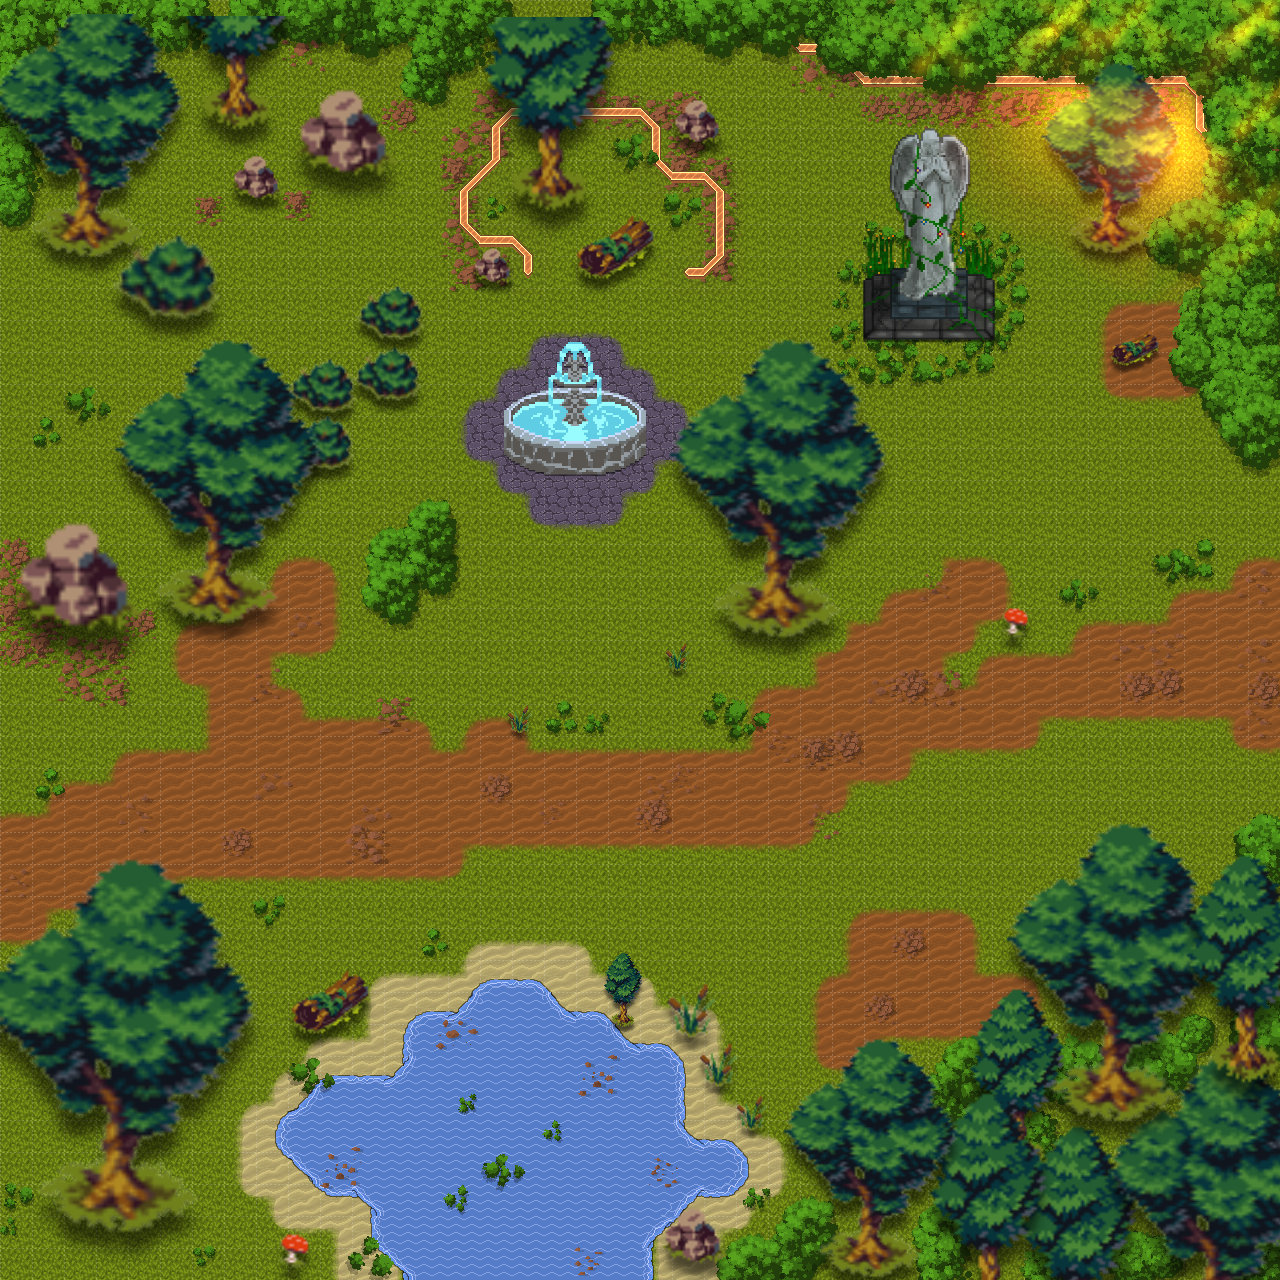
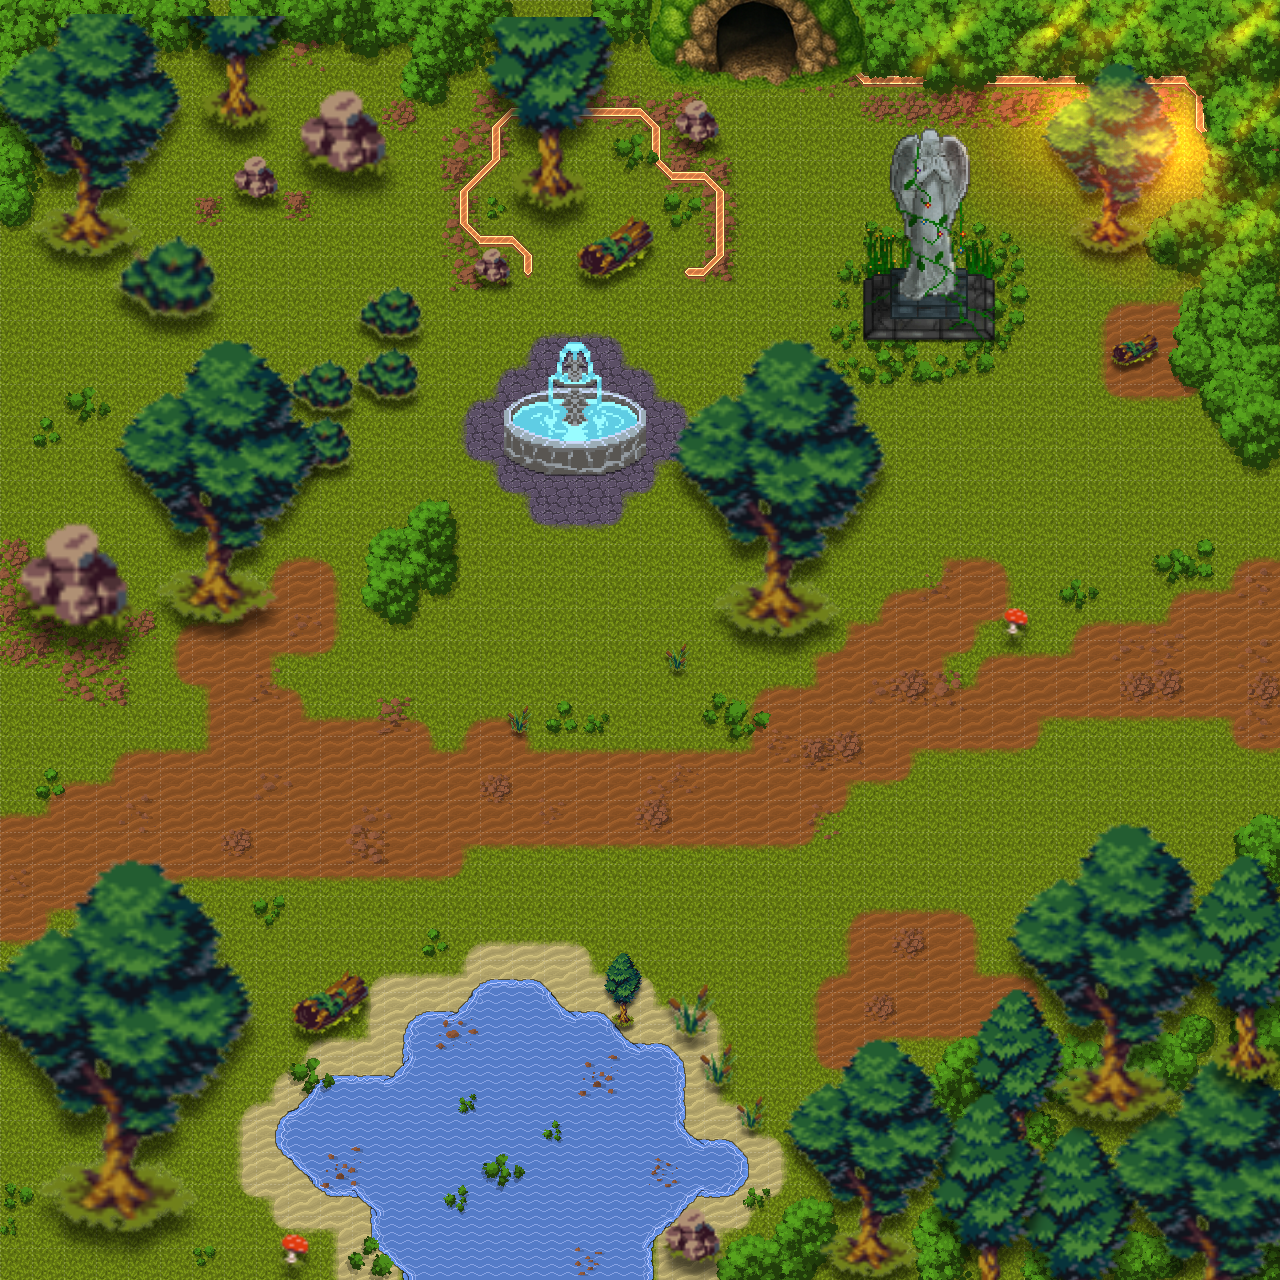
Novo mapa

Changed region(s): [[0.5, 0.0, 0.6875, 0.0938]]

diff --git a/Jogo/game.py b/Jogo/game.py
@@ -3,7 +3,7 @@ import pygame.mixer
 from config import Largura, Altura, FPS, tela, clock, font_dialogo, font_instrucao, font_mensagem, SPRITE_Largura, SPRITE_Altura, DIALOGO_VELOCIDADE, DIALOGO_MARGEM, DIALOGO_CAIXA_X, DIALOGO_CAIXA_Y, DIALOGO_CAIXA_LARGURA_MAX, DIALOGO_CAIXA_ALTURA_MIN
 from assets import mapas, player_spritesheet2, player_spritesheet3, sprite_barra_vida
 from player import Player, Projectplay, atualizar_sprites, ANIM_Baixo_Ataque, ANIM_Esquerda_Ataque, ANIM_Direita_Ataque, ANIM_Cima_Ataque
-from collisions import colisoes_segundo_mapa, colisoes_mapa_torre, colisoes_primeiro_mapa
+from collisions import colisoes_segundo_mapa, colisoes_mapa_torre, colisoes_primeiro_mapa, colisoes_terceiro_mapa
 from Boss import Boss, WindGust
 
 class Game:
@@ -22,7 +22,7 @@ class Game:
         pygame.mixer.music.set_volume(0.05)  # Ajuste o volume (0.0 a 1.0)
         pygame.mixer.music.play(-1)  # -1 faz a música tocar em loop
 
-        ##boss_até entrar na torre
+        #boss_até entrar na torre
         self.all_sprites   = pygame.sprite.Group()
         self.boss_attacks  = pygame.sprite.Group()
         self.boss          = None
@@ -32,13 +32,19 @@ class Game:
         self.coletavel_img3 = pygame.transform.scale(pygame.image.load("bau_aberto.png"), (46, 36))
         self.coletavel_img4 = pygame.transform.scale(pygame.image.load("Caveira_Com_Manto.png"), (100, 100))
         self.coletavel_img5 = pygame.transform.scale(pygame.image.load("Caveira_Sem_Manto.png"), (100, 100))
+        self.coletavel_img6 = pygame.transform.scale(pygame.image.load("Chave.png"), (30, 30))
+        self.coletavel_img7 = pygame.transform.scale(pygame.image.load("Chave_Coletada.png"), (30, 30))
 
         # Coletáveis por mapa
+        # o "pos" define a posição do item no mapa.
         self.coletaveis = {
             "primeiro mapa": [],
             "segundo mapa": [
                 {"pos": (200, 180), "coletado": False},
                 {"pos": (750, 470), "coletado": False}
+            ],
+            "terceiro mapa": [
+                {"pos": (550, 35), "coletado": False}
             ],
             "torre": []
         }
@@ -66,9 +72,10 @@ class Game:
         self.objetos_coletados = 0
         # Inicializar os contadores de cada coletável
         self.contadores_coletaveis = {
-            "manto": 0,
+            "chave": 0,
             "cajado": 0,
-            "livro": 0  
+            "manto": 0,
+            "livro": 0 
         }
         
         # carregar a imagem da moldura dos contadores
@@ -237,7 +244,7 @@ class Game:
 
     def desenhar_contadores_separados(self):
         # desenha a moldura dos coletaveis e os contadores abaixo de cada icone
-        margem_x = 700  # margem direita
+        margem_x = 650  # margem direita
         margem_y = 10  # margem superior
         espacamento_entre_icones = 66  # espaco horizontal entre os contadores
         contador_y_offset = 110  # espaco vertical entre a moldura e o contador
@@ -247,6 +254,7 @@ class Game:
 
         # lista de contadores para cada coletavel
         contadores = [
+            self.contadores_coletaveis["chave"],
             self.contadores_coletaveis["cajado"],
             self.contadores_coletaveis["manto"],
             self.contadores_coletaveis["livro"]
@@ -256,7 +264,7 @@ class Game:
         for i, contador in enumerate(contadores):
             texto = f"{contador}"
             texto_surface = font_mensagem.render(texto, True, (255, 255, 255))
-            texto_rect = texto_surface.get_rect(center=(margem_x + 86 + i * espacamento_entre_icones, margem_y + contador_y_offset))
+            texto_rect = texto_surface.get_rect(center=(margem_x + 52 + i * espacamento_entre_icones, margem_y + contador_y_offset))
             self.tela.blit(texto_surface, texto_rect)
 
     def transicao(self, duracao, tipo="fade-in"):
@@ -370,12 +378,14 @@ class Game:
                     # Desenha o boss parado durante o diálogo
                     self.tela.blit(self.boss.image, self.boss.rect)
 
-            if self.mapa_atual == "segundo mapa":
-                colisoes = colisoes_segundo_mapa
-            elif self.mapa_atual == "torre":
-                colisoes = colisoes_mapa_torre
-            else:
+            if self.mapa_atual == "primeiro mapa":
                 colisoes = colisoes_primeiro_mapa
+            elif self.mapa_atual == "segundo mapa":
+                colisoes = colisoes_segundo_mapa
+            elif self.mapa_atual == "terceiro mapa":
+                colisoes = colisoes_terceiro_mapa
+            else:
+                colisoes = colisoes_mapa_torre
 
             for event in pygame.event.get():
                 if event.type == pygame.QUIT:
@@ -401,12 +411,23 @@ class Game:
                                             self.contadores_coletaveis["manto"] += 1  # Incrementa o contador do manto
                                             self.objetos_coletados += 1
                                             self.coleta_pendente = None
+                                            
                                         self.dialogo_caveira_ativa = False
                                         self.dialogo_atual_lista = self.dialogo_textos
+
+                                    elif self.mapa_atual == "terceiro mapa" and self.coleta_pendente is not None:
+                                        coletavel = self.coletaveis["terceiro mapa"][self.coleta_pendente]
+                                        coletavel["coletado"] = True
+                                        self.mostrar_mensagem("Você encontrou a chave", 120)
+                                        self.contadores_coletaveis["chave"] += 1  # se estiver usando um contador específico
+                                        self.objetos_coletados += 1
+                                        self.coleta_pendente = None
+
                                 else:
                                     self.dialogo_letra_contador = 0
                                     self.dialogo_texto_atual = ""
                                     self.dialogo_frame_contador = 0
+
                         elif self.boss_dialogue_active and self.boss and not self.boss.dialogue_complete:
                             if self.dialogo_letra_contador < len(self.boss.dialogues[self.boss.dialogue_index]):
                                 self.dialogo_letra_contador = len(self.boss.dialogues[self.boss.dialogue_index])
@@ -451,12 +472,15 @@ class Game:
                 self.player.move(keys, colisoes, self.objetos_coletados)
 
             jogador_rect = pygame.Rect(self.player.x, self.player.y, SPRITE_Largura, SPRITE_Altura)
+
             for index, coletavel in enumerate(self.coletaveis[self.mapa_atual]):
-                
+
                 if not coletavel["coletado"]:
                     coletavel_rect_bau = self.coletavel_img2.get_rect(topleft=coletavel["pos"])
                     coletavel_rect_esq = self.coletavel_img4.get_rect(topleft=coletavel["pos"])
+                    coletavel_rect_key = self.coletavel_img6.get_rect(topleft=coletavel["pos"])
 
+                    # Lógica de interação com coletável no segundo mapa
                     if index == 0 and self.mapa_atual == "segundo mapa" and not self.dialogo_caveira_ativa and not self.dialogo_ativa:
                         proximidade_rect = coletavel_rect_esq.inflate(100, 100)
                         if jogador_rect.colliderect(proximidade_rect):
@@ -469,32 +493,52 @@ class Game:
                             self.dialogo_frame_contador = 0
                             self.coleta_pendente = index
 
-                    if coletavel == self.coletaveis[self.mapa_atual][1]:
-                        if jogador_rect.colliderect(coletavel_rect_bau) and self.coletaveis["segundo mapa"][0]["coletado"]:
+                    # Lógica de interação com coletável no terceiro mapa
+                    if index == 0 and self.mapa_atual == "terceiro mapa":
+                        if jogador_rect.colliderect(coletavel_rect_key):
+                            coletavel["coletado"] = True
+                            self.mostrar_mensagem("Você encontrou a chave", 120)
+                            self.contadores_coletaveis["chave"] += 1
+                            self.objetos_coletados += 1
+
+                    if (self.mapa_atual == "segundo mapa" and index == 1 and len(self.coletaveis[self.mapa_atual]) > 1 and self.coletaveis["segundo mapa"][0]["coletado"] and self.contadores_coletaveis.get("chave", 0) > 0):
+                        if jogador_rect.colliderect(coletavel_rect_bau):
                             coletavel["coletado"] = True
                             self.mostrar_mensagem("Cajado da Vacuidade coletado!", 120)
                             atualizar_sprites(self.player, player_spritesheet3)
                             self.contadores_coletaveis["cajado"] += 1  # Incrementa o contador do cajado
                             self.objetos_coletados += 1
                     
-                    
-            for coletavel in self.coletaveis[self.mapa_atual]:
-                
-                if coletavel == self.coletaveis[self.mapa_atual][1]:
+            for index, coletavel in enumerate(self.coletaveis[self.mapa_atual]):
+                if index == 1 and self.mapa_atual == "segundo mapa":
                     if not coletavel["coletado"]:
                         self.tela.blit(self.coletavel_img2, coletavel["pos"])
                     else:
                         self.tela.blit(self.coletavel_img3, coletavel["pos"])
+
+                elif self.mapa_atual == "terceiro mapa":
+                    if not coletavel["coletado"]:
+                        self.tela.blit(self.coletavel_img6, coletavel["pos"])
+                    else:
+                        self.tela.blit(self.coletavel_img7, coletavel["pos"])
+
                 else:
                     if not coletavel["coletado"]:
                         self.tela.blit(self.coletavel_img4, coletavel["pos"])
                     else:
                         self.tela.blit(self.coletavel_img5, coletavel["pos"])
 
-            if self.mapa_atual == "primeiro mapa" and self.player.x >= 970:
-                self.mapa_atual = "segundo mapa"
-                self.player.y = Altura // 2 + 35
-                self.player.x = 15
+            #Bloco de manipulação de mapas
+            if self.mapa_atual == "primeiro mapa":
+                if self.player.x >= 970:
+                    self.mapa_atual = "segundo mapa"
+                    self.player.y = Altura // 2 + 35
+                    self.player.x = 15
+
+                elif self.player.y == 0:
+                    self.mapa_atual = "terceiro mapa"
+                    self.player.y = 700
+                    self.player.x = 480
                 
             elif self.mapa_atual == "segundo mapa":
                 if self.player.x <= 5:
@@ -522,7 +566,6 @@ class Game:
                     self.all_sprites.add(self.boss)  
                       
             elif self.mapa_atual == "torre":
-                
                 if 415 < self.player.x < 600 and self.player.y >= 790:
                     self.mapa_atual = "segundo mapa"
                     self.player.x = 440
@@ -538,6 +581,12 @@ class Game:
                         self.boss_attacks.empty()
                         self.boss = None
 
+            elif self.mapa_atual == "terceiro mapa":
+                if self.player.y == 800:
+                    self.mapa_atual = "primeiro mapa"
+                    self.player.y = 0
+                    self.player.x = 560
+                
             # chamando as defs
             self.desenhar_mensagem()
             if self.boss_dialogue_active and self.boss and not self.boss.dialogue_complete:

diff --git a/Jogo/collisions.py b/Jogo/collisions.py
@@ -1,57 +1,77 @@
 import pygame
-# colisoes dos mapas
+# Colisões dos Mapas
+
+#Dimenções do pygame.Rect(x, y, largura, altura)
+colisoes_primeiro_mapa = [
+    pygame.Rect(0, 0, 1, 800),           # Parede lateral esquerda
+    pygame.Rect(0, 0, 500, 1),           # Parede superior esquerda
+    pygame.Rect(670, 0, 400, 1),         # Parede superior direita
+    pygame.Rect(0, 799, 1000, 1),        # Parede inferior
+    pygame.Rect(950, 0, 100, 250),       # Parede lateral direita superior
+    pygame.Rect(800, 550, 200, 200),     # Parede lateral direita inferior
+    pygame.Rect(0, 0, 200, 340),         # Bloco arvores e pedras esquerda
+    pygame.Rect(0, 600, 50, 200),        # Arvore inferior
+    pygame.Rect(80, 550, 50, 250),       # Arvore inferior
+    pygame.Rect(260, 650, 240, 150),     # Lago
+    pygame.Rect(650, 680, 350, 100),     # Floresta inferior direita
+    pygame.Rect(860, 30, 50, 100),       # Arvore superior direita
+    pygame.Rect(700, 80, 50, 100),       # Estatua
+    pygame.Rect(390, 10, 160, 130),      # Arvore cercada
+    pygame.Rect(410, 230, 70, 40),       # Fonte
+    pygame.Rect(575, 245, 60, 105),      # Arvore central
+    pygame.Rect(200, 40, 70, 30),        # Pedra superior esquerda
+]
 
 colisoes_segundo_mapa = [
-    pygame.Rect(0, 0, 40, 165),  # Paredes rochosas superiores
-    pygame.Rect(100, 0, 300, 60),  # Paredes rochosas superiores 2
-    pygame.Rect(590, 0, 300, 20),  # Paredes rochosas superiores 3
-    pygame.Rect(390, 20, 140, 200),  # Torre de pedra
-    pygame.Rect(750, 0, 280, 400),  # Água superior
-    pygame.Rect(855, 450, 280, 50), # Pier
-    pygame.Rect(750, 525, 280, 40), # Água inferior
-    pygame.Rect(800, 570, 280, 250), # Água inferior 2
-    pygame.Rect(0, 650, 220, 100),  # Paredes rochosas inferiores
-    pygame.Rect(250, 700, 130, 100),  # Paredes rochosas inferiores 2
-    pygame.Rect(440, 770, 410, 100),  # Paredes rochosas inferiores 3
-    pygame.Rect(240, 215, 8, 5),  # Esqueleto
-    pygame.Rect(770, 450, 10, 20),  # Baú
+    pygame.Rect(0, 0, 40, 165),          # Paredes rochosas superiores
+    pygame.Rect(100, 0, 300, 60),        # Paredes rochosas superiores 2
+    pygame.Rect(590, 0, 300, 20),        # Paredes rochosas superiores 3
+    pygame.Rect(390, 20, 140, 200),      # Torre de pedra
+    pygame.Rect(750, 0, 280, 400),       # Água superior
+    pygame.Rect(855, 450, 280, 50),      # Pier
+    pygame.Rect(750, 525, 280, 40),      # Água inferior
+    pygame.Rect(800, 570, 280, 250),     # Água inferior 2
+    pygame.Rect(0, 650, 220, 100),       # Paredes rochosas inferiores
+    pygame.Rect(250, 700, 130, 100),     # Paredes rochosas inferiores 2
+    pygame.Rect(440, 770, 410, 100),     # Paredes rochosas inferiores 3
+    pygame.Rect(240, 215, 8, 5),         # Esqueleto
+    pygame.Rect(770, 450, 10, 20),       # Baú
 ]
 
+#Dimenções do pygame.Rect(x, y, largura, altura)
+colisoes_terceiro_mapa = [
+    pygame.Rect(0, 0, 90, 800),          # Parede esquerda
+    pygame.Rect(0, 0, 1000, 20),         # Parede superior total
+    pygame.Rect(0, 0, 200, 100),         # Parede superior esquerda
+    pygame.Rect(720, 0, 200, 100),       # Parede superior direita
+    pygame.Rect(900, 0, 1, 1200),        # Parede direita
+    pygame.Rect(0, 800, 430, 1),         # Parede inferior esquerda
+    pygame.Rect(560, 800, 500, 1),       # Parede inferior direita
+    pygame.Rect(0, 190, 200, 130),       # Lago superior esquerdo
+    pygame.Rect(280, 190, 100, 80),      # Buraco central superior esquerdo
+    pygame.Rect(320, 400, 80, 80),       # Buraco central inferior esquerdo
+    pygame.Rect(670, 600, 110, 90),      # Buraco inferior direito
+    pygame.Rect(330, 560, 45, 50),       # Estátua meio inferior esquerdo
+    pygame.Rect(720, 345, 80, 50),       # Cones lado direito
+]
+
+#Dimenções do pygame.Rect(x, y, largura, altura)
 colisoes_mapa_torre = [
-    pygame.Rect(0, 0, 1000, 200),  # Parede fundo
-    pygame.Rect(0, 210, 60, 30),  # Parede fundo esquerda
-    pygame.Rect(945, 210, 60, 30),  # Parede fundo direita
-    pygame.Rect(0, 0, 3, 800),  # Parede lateral esquerda
-    pygame.Rect(997, 0, 3, 800),  # Parede lateral direita
-    pygame.Rect(0, 750, 20, 50),  # Parede lateral direita
-    pygame.Rect(970, 750, 20, 50),  # Parede lateral direita
-    pygame.Rect(30, 795, 385, 3),  # Parede inferior esquerda
-    pygame.Rect(600, 795, 400, 3),  # Parede inferior direita
-    #pygame.Rect(0, 850, 1000, 1),  # Barreira porta
-    pygame.Rect(140, 220, 30, 80),  # Estatua superior esquerda
-    pygame.Rect(800, 220, 30, 80),  # Estatua superior direita
-    pygame.Rect(20, 420, 60, 50),  # Estatua meio esquerda
-    pygame.Rect(920, 420, 30, 50),  # Estatua meio direita
-    pygame.Rect(135, 670, 30, 50),  # Estatua inferior esquerda
-    pygame.Rect(825, 670, 30, 50),  # Estatua inferior direita
-    pygame.Rect(490, 210, 20, 35),  # Trono
-]
-
-colisoes_primeiro_mapa = [
-    pygame.Rect(0, 0, 1, 800),  # Parede lateral esquerda
-    pygame.Rect(0, 0, 1000, 1),  # Parede superior
-    pygame.Rect(0, 799, 1000, 1),  # Parede inferior
-    pygame.Rect(950, 0, 100, 250),  # Parede lateral direita superior
-    pygame.Rect(800, 550, 200, 200),  # Parede lateral direita inferior
-    pygame.Rect(0, 0, 200, 340),  # Bloco arvores e pedras esquerda
-    pygame.Rect(0, 600, 50, 200),  # Arvore inferior
-    pygame.Rect(80, 550, 50, 250),  # Arvore inferior
-    pygame.Rect(260, 650, 240, 150),  # Lago
-    pygame.Rect(650, 680, 350, 100),  # Floresta inferior direita
-    pygame.Rect(860, 30, 50, 100),  # Arvore superior direita
-    pygame.Rect(700, 80, 50, 100),  # Estatua
-    pygame.Rect(390, 10, 160, 130),  # Arvore cercada
-    pygame.Rect(410, 230, 70, 40),  # Fonte
-    pygame.Rect(575, 245, 60, 105),  # Arvore central
-    pygame.Rect(200, 40, 70, 30),  # Pedra superior esquerda
+    pygame.Rect(0, 0, 1000, 200),        # Parede fundo
+    pygame.Rect(0, 210, 60, 30),         # Parede fundo esquerda
+    pygame.Rect(945, 210, 60, 30),       # Parede fundo direita
+    pygame.Rect(0, 0, 3, 800),           # Parede lateral esquerda
+    pygame.Rect(997, 0, 3, 800),         # Parede lateral direita
+    pygame.Rect(0, 750, 20, 50),         # Parede lateral direita
+    pygame.Rect(970, 750, 20, 50),       # Parede lateral direita
+    pygame.Rect(30, 795, 385, 3),        # Parede inferior esquerda
+    pygame.Rect(600, 795, 400, 3),       # Parede inferior direita
+    #pygame.Rect(0, 850, 1000, 1),       # Barreira porta
+    pygame.Rect(140, 220, 30, 80),       # Estatua superior esquerda
+    pygame.Rect(800, 220, 30, 80),       # Estatua superior direita
+    pygame.Rect(20, 420, 60, 50),        # Estatua meio esquerda
+    pygame.Rect(920, 420, 30, 50),       # Estatua meio direita
+    pygame.Rect(135, 670, 30, 50),       # Estatua inferior esquerda
+    pygame.Rect(825, 670, 30, 50),       # Estatua inferior direita
+    pygame.Rect(490, 210, 20, 35),       # Trono
 ]

diff --git a/Jogo/assets.py b/Jogo/assets.py
@@ -5,7 +5,8 @@ from config import Largura, Altura, SPRITE_Largura, SPRITE_Altura, SPRITE_Largur
 mapas = {
     "primeiro mapa": pygame.transform.scale(pygame.image.load("mapa_1.png"), (Largura, Altura)),
     "segundo mapa": pygame.transform.scale(pygame.image.load("mapa_2.png"), (Largura, Altura)),
-    "torre": pygame.transform.scale(pygame.image.load("mapa_torre.png"), (Largura, Altura))
+    "torre": pygame.transform.scale(pygame.image.load("mapa_torre.png"), (Largura, Altura)),
+    "terceiro mapa": pygame.transform.scale(pygame.image.load("mapa_3.png"), (Largura, Altura))
 }
 # Player spritesheet
 player_spritesheet = pygame.transform.scale(pygame.image.load("personagem.png"), (832, 3456))
